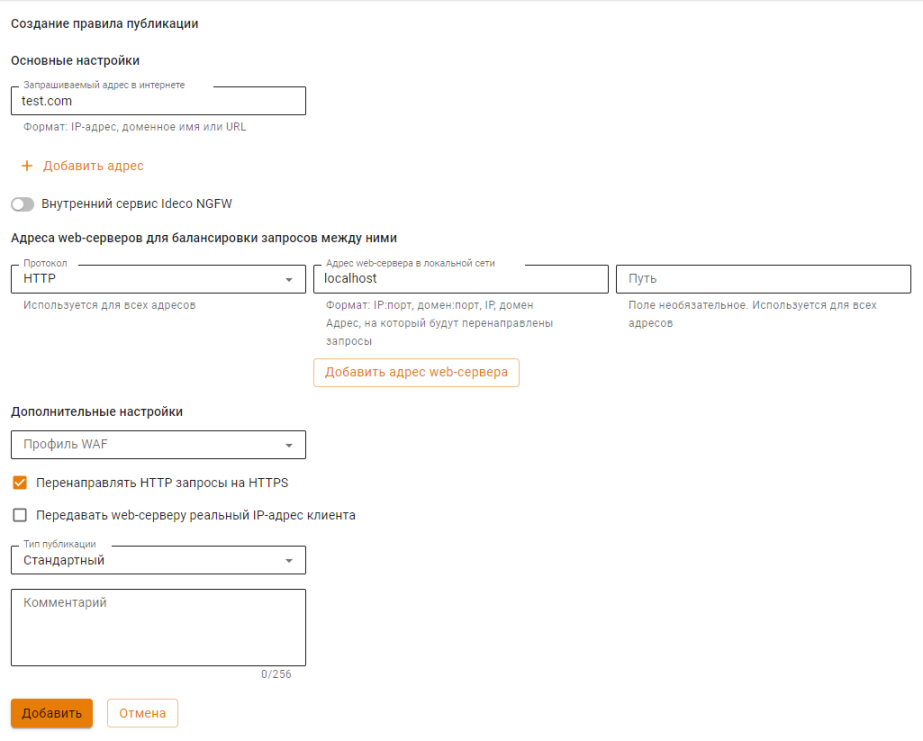
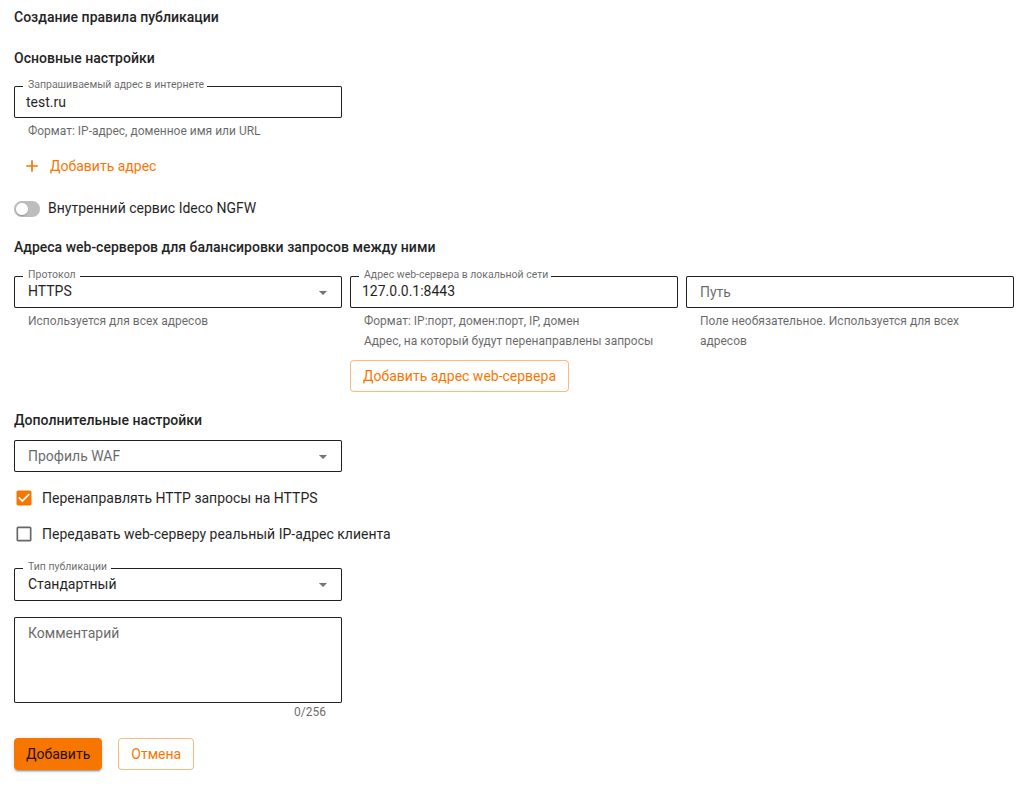
ICS-45328 УТМ. Вычитать ст-ю Удаленный доступ к серверу

Changed region(s): [[0.0, 0.0, 1.0, 0.5277], [0.0, 0.5277, 0.3944, 0.9312], [0.0, 0.9312, 0.2124, 0.9933]]

diff --git a/recipes/popular-recipes/remote-access-for-server-management.md b/recipes/popular-recipes/remote-access-for-server-management.md
@@ -6,11 +6,11 @@
 
 1\. Перейдите в раздел **Управление сервером -> Администраторы**.
 
-2\. Уточните сеть, из которой планируется подключение:
-   * При подключении из внешних сетей активируйте **Доступ по SSH из внешних сетей**;
-   * При подключении из локальных сетей активируйте **Доступ по SSH из локальных сетей**.
+2\. Активируйте необходимую настройку:
+   * **Доступ по SSH из внешних сетей**;
+   * **Доступ по SSH из локальных сетей**.
 
-3\. Подключитесь к серверу с помощью любого SSH-клиента (например, PuTTY), используя 22 порт. Скачать SSH-клиент PuTTY можно на сайте [https://www.putty.org/](https://www.putty.org/). Необходимо указать логин **Администратора** и его пароль.
+3\. Подключитесь к серверу с помощью любого SSH-клиента (для Windows, например, [PuTTY](https://www.putty.org/)), используя 22 порт. Необходимо указать логин **Администратора** и его пароль.
 
 4\. Используйте `ideco-local-menu --debug` для доступа к локальному меню или `ls` для вывода каталогов текущей директории.
 
@@ -18,7 +18,7 @@
 
 ![](/.gitbook/assets/remote-access-for-server-management.png)
 
-## Доступ к веб-интерфейсу сервера из сети интернет
+## Доступ к веб-интерфейсу сервера из интернета
 
 **Доступ из внешней сети:**
 
@@ -26,7 +26,7 @@
 
 **Доступ по VPN:**
 
-* Создайте VPN-подключение к серверу, например, по IPsec, IKEv2 или SSTP. После подключения можно перейти в веб-интерфейс по IP-адресу любого локального интерфейса (в том числе IP-адрес из диапазона для VPN-подключений. Адрес по умолчанию - 10.128.0.1).
+* Создайте [VPN-подключение](https://docs.ideco.dev/v19/settings/users/vpn-connection) к серверу, например, по IKEv2 или SSTP. После подключения перейдите в веб-интерфейс по IP-адресу любого локального интерфейса с указанием порта 8443 (в том числе по IP-адресу из диапазона для VPN-подключений. Адрес по умолчанию - 10.128.0.1).
 
 **Публикация через обратный прокси:**
 
@@ -36,6 +36,16 @@
 
 ![](/.gitbook/assets/reverse-proxy2.png)
 
-3\. Укажите в качестве запрашиваемого адреса IP-адрес или доменное имя внешнего интерфейса Ideco NGFW.
+<details>
 
-4\. Нажмите на кнопку **Добавить** и зайдите по одному из адресов, которые были указаны в поле **Запрашиваемый адрес в интернете**.
+<summary>Расшифровка полей</summary>
+
+* **Запрашиваемый адрес в интернете** - IP-адрес, доменное имя или URL, который будет запрашиваться пользователями;
+* **Протокол** - HTTPS;
+* **Адрес web-интерфейса в локальной сети** - 127.0.0.1:8443 или localhost:8443.
+
+</details>
+
+3\. Установите флаг **Перенаправлять HTTP запросы на HTTPS**.
+
+4\. Нажмите **Добавить** и перейдите по одному из адресов, которые были указаны в поле **Запрашиваемый адрес в интернете**.
